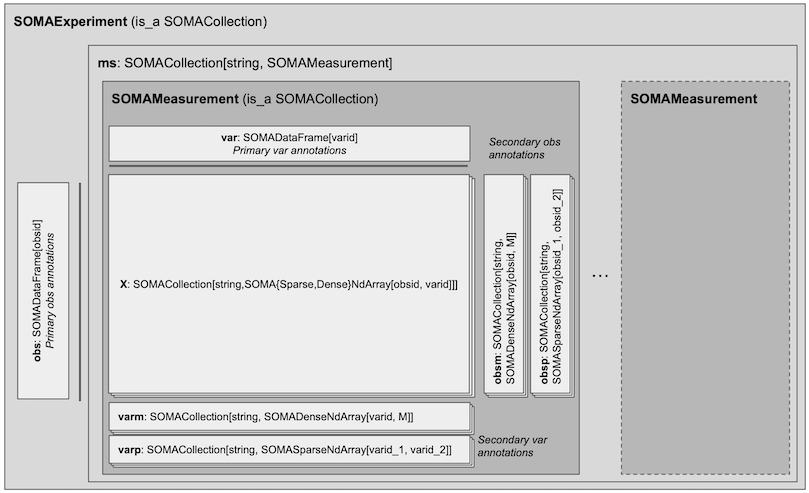
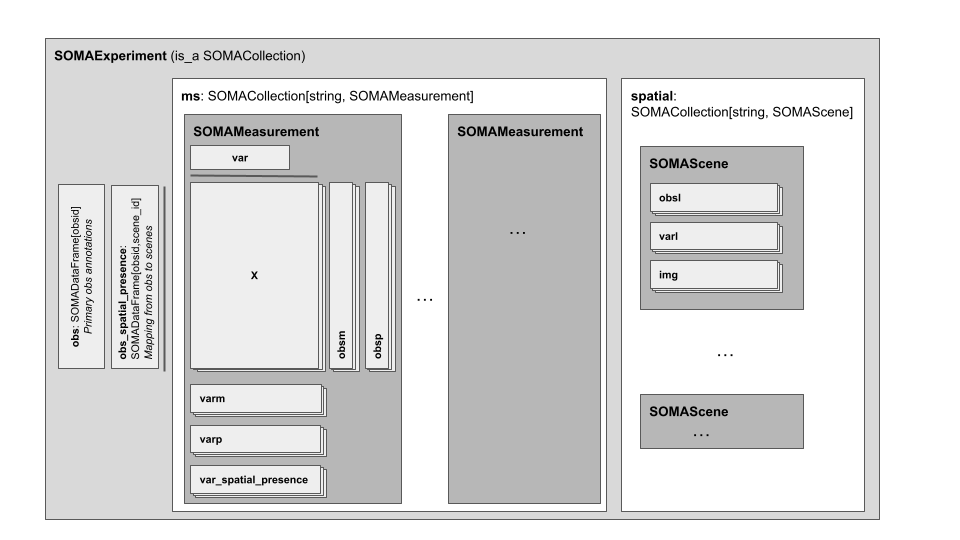
Spatial updates to the abstract spec (#223)
Add the following new datatypes to the abstract specification:

* `SOMAScene`
* `SOMAPointCloudDataFrame`
* `SOMAGeometryDataFrame`
* `SOMAMultiscaleImage`

---------

diff --git a/abstract_specification.md b/abstract_specification.md
@@ -2,7 +2,7 @@
 
 <!-- Note to editors: this version string is independent of GitHub release tags on this repo. In particular, it needs to match `get_SOMA_version()` in impls. -->
 
-**Specification version**: `0.2.0-dev`
+**Specification version**: `0.3.0-dev`
 
 ℹ **Note**: Feedback on this spec is encouraged. Please [file an issue](https://github.com/single-cell-data/SOMA/issues)
 with any and all feedback, comments, or concerns.
@@ -15,7 +15,9 @@ The goal of SOMA (“stack of matrices, annotated”) is a flexible, extensible,
 - enable distributed computation over datasets.
 - provide a building block for higher-level API that may embody domain-specific conventions or schema around annotated 2D matrices (e.g., a cell "atlas").
 
-The SOMA data model is centered on annotated 2-D matrices, conceptually similar to commonly used single-cell 'omics data structures including Seurat Assay, Bioconductor SingleCellExperiment, and Scanpy AnnData. Where possible, the SOMA API attempts to be general-purpose and agnostic to the specifics of any given environment, or to the specific conventions of the Single Cell scientific ecosystem.
+The core SOMA data model is centered on annotated 2-D matrices, conceptually similar to commonly used single-cell 'omics data structures including Seurat Assay, Bioconductor SingleCellExperiment, and Scanpy AnnData. The core data model is supplemented with spatial indexed data for single-cell spatial 'omics support.
+
+Where possible, the SOMA API attempts to be general-purpose and agnostic to the specifics of any given environment, or to the specific conventions of the Single Cell scientific ecosystem.
 
 SOMA is an abstract _API specification_, with the goal of enabling multiple concrete API implementations within different computing environments and data-storage systems. SOMA does not specify an at-rest serialization format or underlying storage system.
 
@@ -65,12 +67,15 @@ The foundational types are:
 
 - `SOMACollection`: a string-keyed container (key-value map) of other SOMA data types, e.g., `SOMADataFrame`, `SOMASparseNDArray`, and `SOMACollection`.
 - `SOMADataFrame`: a multi-column table -- essentially a dataframe with indexing on user-specified columns.
+- `SOMAGeometryDataFrame` and `SOMAPointCloudDataFrame`: multi-column tables for storing spatial indexed dataframes, available for point or full geometry instantiations.
 - `SOMADenseNDArray` and `SOMASparseNDArray`: an offset-addressed (zero-based), single-type N-D array, available in either sparse or dense instantiations.
+- `SOMAMultiscaleImage`: a multiscale image pyramid that stores multiple levels of `SOMADenseNDArray`s.
 
 The composed types are:
 
 - `SOMAExperiment`: a specialization and extension of `SOMACollection`, codifying a set of naming and indexing conventions to represent an annotated, 2-D matrix of observations across _multiple_ sets of variables.
 - `SOMAMeasurement`: a specialization and extension of `SOMACollection`, that contains a set of annotated observables that are common to one or more sets of measurements and/or derived calculations.
+- `SOMAScene`: a specialization and extension of `SOMACollection` that stores spatially resolved data that can be registered to a single coordinate space.
 
 In this document, the term `dataframe` implies something akin to an Arrow `Table` (or `RecordBatch`), R `data.frame` or Python `pandas.DataFrame`, where:
 
@@ -205,6 +210,28 @@ The default "fill" value for `SOMADataFrame` is the zero or null value of the re
 
 Most language-specific bindings will provide convertors between `SOMADataFrame` and other convenient data structures, such as Python `pandas.DataFrame`, R `data.frame`.
 
+### SOMAPointCloudDataFrame
+
+`SOMAPointCloudDataFrame` is a multi-column table with a user-defined schema, defining the number of columns and their respective column name and value type. The schema is expressed as an Arrow `Schema`.
+
+Like the `SOMADataFrame`, every `SOMAPointCloudDataFrame` must contain a column called `soma_joinid` of type `int64` and domain `[0, 2^63-1]`. The `soma_joinid` is intended to act as a joint key for other objects, such as `SOMASparseNDArray`. There may be multiple items with the same `soma_joinid` stored in the `SOMAPointCloudDataFrame`.
+
+In addition to the `soma_joinid`, the user must define spatial columns, referred to as "spatial axes", that define the "points" in the array. Each spatial axis must be either an integer or floating-point type, and they must all have the same type. The user may specify a restriced domain for spatial axes or allow the axes to support the entire valid type range. The spatial axes must be index columns for the `SOMAPointCloudDataFrame`, but the user may also specify other columns as index columns.
+
+The default "fill" value for `SOMAPointCloudDataFrame` is the zero or null value of the respective column data type (e.g., `Arrow.float32` defaults to 0.0, `Arrow.string` to `""`, etc).
+
+### SOMAGeometryDataFrame
+
+`SOMAGeometryDataFrame` is a multi-column table with a user-defined schema, defining the number of columns and their respective column name and value type. The schema is expressed as an Arrow `Schema`.
+
+Like the `SOMADataFrame`, every `SOMAGeometryDataFrame` must contain a column called `soma_joinid` of type `int64` and domain `[0, 2^63-1]`. TThe `soma_joinid` is intended to act as a joint key for other objects, such as `SOMASparseNDArray`. There may be multiple items with the same `soma_joinid` stored in the `SOMAGeometryDataFrame`.
+
+In addition to the `soma_joinid`, every `SOMAGeometryDataFrame` must contain a column called `soma_geometry` with type `binary` that stores a well-known binary blob. The user must provide names for the axes of the geometry stored in the well-known binary that is distinct from the
+names of other columns in the table. The `soma_geometry` must be an index column, but the user may also specify other additional columns as
+index columns. Multiple items with the same geometry may be stored in the `SOMAGeometryDataFrame`.
+
+SOMADataFrame`is the zero or null value of the respective column data type (e.g.,`Arrow.float32`defaults to 0.0,`Arrow.string`to`""`, etc).
+
 ### SOMADenseNDArray
 
 `SOMADenseNDArray` is a dense, N-dimensional array of `primitive` type, with offset (zero-based) integer indexing on each dimension. The `SOMADenseNDArray` has a user-defined schema, which includes:
@@ -229,28 +256,47 @@ All dimensions must have a positive (in particular, non-zero) length, and there 
 
 The default "fill" value for `SOMASparseNDArray` is the zero or null value of the array type (e.g., Arrow.float32 defaults to 0.0).
 
-> ℹ **Note**: on TileDB this is an sparse array with `N` `int64` dimensions of domain `[0, maxInt64)`, and a single attribute.
+> ℹ **Note**: on TileDB this is a sparse array with `N` `int64` dimensions of domain `[0, maxInt64)`, and a single attribute.
+
+### SOMAMultiscaleImage
+
+`SOMAMultiscaleImage` is `string`-keyed map of "images" that are stored as `SOMADenseNDArray`s. The `SOMAMultiscaleImage` is additionally indexed by the maximum shape (largest to smallest). The maximum shape of each `SOMADenseNDArray` must be the size of the entire image, but it may contain regions without data (in which case the `fill` value of the `SOMADenseNDArray` will be used). Keys in the map are unique and singular (no duplicates, i.e., the `SOMAMultiscaleImage` is _not_ a multi-map).
+
+The `SOMAMultiscaleImage` must have a fixed image axis order (e.g. channel-height-width) and a fixed number of channels (if there is a channel column). Each image within the `SOMAMultiscaleImage` must match these conventions. The user may provide names for the columns that correspond to spatial information (e.g. "x" for width and "y" for height).
+
+#### SOMAMultiscaleImage entry URIs
+
+A `SOMAMultiscaleImage` refers to its elements by URI. Like the `SOMACollection`, it refers to an element by **absolute** URI or **relative** URI. See above for a more complete description of **absolute** and **relative** URI behavior.
 
 ## Composed Types
 
 Composed types are defined as a composition of foundational types, adding name, type and indexing constraints. These types are intended to facilitate data interoperability, ease of use, and _potentially_ enable implementation optimizations by virtue of their typing and structural guarantees. The initial composed types are motivated by single-cell biology, but additional types may be added in the future for more diverse use cases.
 
-### SOMAExperiment and SOMAMeasurement
+### SOMAExperiment, SOMAMeasurement, and SOMAScene
 
-`SOMAExperiment` is a specialized `SOMACollection`, representing an annotated 2-D matrix of measurements. In the single-cell-biology use case, a `SOMAExperiment` can represent multiple modes of measurement across a single collection of cells (also known as a "multimodal dataset"). Within a `SOMAExperiment`, a set of measurements on a single set of variables (features) is represented as a `SOMAMeasurement`.
+`SOMAExperiment` is a specialized `SOMACollection`, representing an annotated 2-D matrix of measurements. In the single-cell-biology use case, a `SOMAExperiment` can represent multiple modes of measurement across a single collection of cells (also known as a "multimodal dataset"). Within a `SOMAExperiment`, a set of measurements on a single set of variables (features) is represented as a `SOMAMeasurement`. A `SOMAExperiment` may also contain spatially resolved data that is stored in a `SOMAScene`.
 
-The `SOMAExperiment` and `SOMAMeasurement` types comprise [foundational types](#foundational-types):
+The `SOMAExperiment`, `SOMAMeasurement`, and `SOMAScene` types comprise [foundational types](#foundational-types):
 
-- `SOMAExperiment`: a well-defined set of annotated observations defined by a `SOMADataFrame`, and one or more "measurement" on those observations.
+- `SOMAExperiment`: a well-defined set of annotated observations defined by a `SOMADataFrame`, one or more "measurement" on those observations, and one of more "scenes" of the observables and measurements.
 - `SOMAMeasurement`: for all observables, a common set of annotated variables (defined by a `SOMADataFrame`) for which values (e.g., measurements, calculations) are stored in `SOMADenseNDArray` and `SOMASparseNDArray`.
+- `SOMAScene`: images and spatially indexed data stored on a fixed coordinate system that relate back to the observables and measurements.
 
-In other words, every `SOMAMeasurement` has a distinct set of variables (features), and inherits common observables from its parent `SOMAExperiment`. The `obs` and `var` dataframes define the axis annotations, and their respective `soma_joinid` values are the indices for all matrixes stored in the `SOMAMeasurement`.
+In other words, every `SOMAMeasurement` has a distinct set of variables (features), and inherits common observables from its parent `SOMAExperiment`. The `obs` and `var` dataframes define the axis annotations, and their respective `soma_joinid` values are the indices for all matrixes stored in the `SOMAMeasurement`. Each `SOMAScene` stores images and spatial dataframes that join on the `obs` and var` dataframes.
 
 <figure>
     <img src="images/SOMAExperiment.png" alt="SOMAExperiment">
 </figure>
 
-These types have pre-defined fields, each of which have well-defined naming, typing, dimensionality and indexing constraints. Other user-defined data may be added to a `SOMAExperiment` and `SOMAMeasurement`, as both are a specialization of the `SOMACollection`. Implementations _should_ enforce the constraints on these pre-defined fields. Pre-defined fields are distinguished from other user-defined collection elements, where no schema or indexing semantics are presumed or enforced.
+<figure>
+   <img src="images/SOMAMeasurement.png" alt="SOMAMeasurment">
+</figure>
+
+<figure>
+   <img src="images/SOMAScene.png" alt="SOMAScene">
+</fiture>
+
+These types have pre-defined fields, each of which have well-defined naming, typing, dimensionality and indexing constraints. Other user-defined data may be added to a `SOMAExperiment`, `SOMAMeasurement`, or `SOMAScene`, as each is a specialization of the `SOMACollection`. Implementations _should_ enforce the constraints on these pre-defined fields. Pre-defined fields are distinguished from other user-defined collection elements, where no schema or indexing semantics are presumed or enforced.
 
 The shape of each axis (`obs` and `var`) are defined by their respective dataframes, and the indexing of matrices is defined by the `soma_joinid` of the respective axis dataframe.
 
@@ -259,40 +305,54 @@ The shape of each axis (`obs` and `var`) are defined by their respective datafra
 
 The pre-defined fields of a `SOMAExperiment` object are:
 
-| Field name | Field type                                | Field description                                                                                                                                                                                                                           |
-| ---------- | ----------------------------------------- | ------------------------------------------------------------------------------------------------------------------------------------------------------------------------------------------------------------------------------------------- |
-| `obs`      | `SOMADataFrame`                           | Primary annotations on the _observation_ axis. The contents of the `soma_joinid` pseudo-column define the _observation_ index domain, also known as `obsid`. All observations for the `SOMAExperiment` _must_ be defined in this dataframe. |
-| `ms`       | `SOMACollection[string, SOMAMeasurement]` | A collection of named measurements.                                                                                                                                                                                                         |
+| Field name             | Field type                                | Field description                                                                                                                                                                                                                           |
+| ---------------------- | ----------------------------------------- | ------------------------------------------------------------------------------------------------------------------------------------------------------------------------------------------------------------------------------------------- |
+| `obs`                  | `SOMADataFrame`                           | Primary annotations on the _observation_ axis. The contents of the `soma_joinid` pseudo-column define the _observation_ index domain, also known as `obsid`. All observations for the `SOMAExperiment` _must_ be defined in this dataframe. |
+| `ms`                   | `SOMACollection[string, SOMAMeasurement]` | A collection of named measurements.                                                                                                                                                                                                         |
+| `spatial`              | `SOMACollection[string, SOMAScene]`       | A collection of named scenes.                                                                                                                                                                                                               |
+| `obs_spatial_presence` | `SOMADataFrame`                           | Join table that stores if a particular _observation_ is stored in a given `SOMAScene`. This dataframe is optional and may be omitted even in a `SOMAExperiment` with multiple `SOMAScene` items.                                            |
 
 The `SOMAMeasurement` is a sub-element of a `SOMAExperiment`, and is otherwise a specialized `SOMACollection` with pre-defined fields:
 
-| Field name | Field type                                                    | Field description                                                                                                                                                                                                                                                                                  |
-| ---------- | ------------------------------------------------------------- | -------------------------------------------------------------------------------------------------------------------------------------------------------------------------------------------------------------------------------------------------------------------------------------------------- |
-| `var`      | `SOMADataFrame`                                               | Primary annotations on the _variable_ axis, for variables in this measurement (i.e., annotates columns of `X`). The contents of the `soma_joinid` pseudo-column define the _variable_ index domain, also known as `varid`. All variables for this measurement _must_ be defined in this dataframe. |
-| `X`        | `SOMACollection[string, SOMASparseNDArray\|SOMADenseNDArray]` | A collection of matrices, each containing measured feature values. Each matrix is indexed by `[obsid, varid]`. Both sparse and dense 2D arrays are supported in `X`.                                                                                                                               |
-| `obsm`     | `SOMACollection[string, SOMASparse\|SOMADenseNDArray]`        | A collection of dense matrices containing annotations of each _obs_ row. Has the same shape as `obs`, and is indexed with `obsid`.                                                                                                                                                                 |
-| `obsp`     | `SOMACollection[string, SOMASparseNDArray]`                   | A collection of sparse matrices containing pairwise annotations of each _obs_ row. Indexed with `[obsid_1, obsid_2].`                                                                                                                                                                              |
-| `varm`     | `SOMACollection[string, SOMASparseNDArray\|SOMADenseNDArray]` | A collection of dense matrices containing annotations of each _var_ row. Has the same shape as `var`, and is indexed with `varid`.                                                                                                                                                                 |
-| `varp`     | `SOMACollection[string, SOMASparseNDArray]`                   | A collection of sparse matrices containing pairwise annotations of each _var_ row. Indexed with `[varid_1, varid_2]`                                                                                                                                                                               |
+| Field name             | Field type                                                    | Field description                                                                                                                                                                                                                                                                                  |
+| ---------------------- | ------------------------------------------------------------- | -------------------------------------------------------------------------------------------------------------------------------------------------------------------------------------------------------------------------------------------------------------------------------------------------- |
+| `var`                  | `SOMADataFrame`                                               | Primary annotations on the _variable_ axis, for variables in this measurement (i.e., annotates columns of `X`). The contents of the `soma_joinid` pseudo-column define the _variable_ index domain, also known as `varid`. All variables for this measurement _must_ be defined in this dataframe. |
+| `X`                    | `SOMACollection[string, SOMASparseNDArray\|SOMADenseNDArray]` | A collection of matrices, each containing measured feature values. Each matrix is indexed by `[obsid, varid]`. Both sparse and dense 2D arrays are supported in `X`.                                                                                                                               |
+| `obsm`                 | `SOMACollection[string, SOMASparse\|SOMADenseNDArray]`        | A collection of dense matrices containing annotations of each _obs_ row. Has the same shape as `obs`, and is indexed with `obsid`.                                                                                                                                                                 |
+| `obsp`                 | `SOMACollection[string, SOMASparseNDArray]`                   | A collection of sparse matrices containing pairwise annotations of each _obs_ row. Indexed with `[obsid_1, obsid_2].`                                                                                                                                                                              |
+| `varm`                 | `SOMACollection[string, SOMASparseNDArray\|SOMADenseNDArray]` | A collection of dense matrices containing annotations of each _var_ row. Has the same shape as `var`, and is indexed with `varid`.                                                                                                                                                                 |
+| `varp`                 | `SOMACollection[string, SOMASparseNDArray]`                   | A collection of sparse matrices containing pairwise annotations of each _var_ row. Indexed with `[varid_1, varid_2]`                                                                                                                                                                               |
+| `var_spatial_presence` | `SOMADataFrame`                                               | Join table that stores if a particular _variable_ is stored in a given `SOMAScene`. This dataframe is optional and may be omitted even if the `SOMAExperiment` the `SOMAMeasurement` is in contains multiple `SOMAScene` items.                                                                    |
+
+The `SOMAScene` is a sub-element of a `SOMAExperiment`, and is otherwise a specialized `SOMACollection` with pre-defined fields:
+
+| Field name | Field type                                                                                    | Field description                                                                                                                                                                                                                     |
+| ---------- | --------------------------------------------------------------------------------------------- | ------------------------------------------------------------------------------------------------------------------------------------------------------------------------------------------------------------------------------------- |
+| `obsl`     | `SOMACollection[string, SOMAPointCloudDataFrame\|SOMAGeometryDataFrame]`                      | Location-based annotations on the _observable_ domain. The `soma_joinid` in any item in this collection should be interpreted as the `obsid`                                                                                          |
+| `varl`     | `SOMACollection[string, SOMACollection[str, SOMAPointCloudDataFrame\|SOMAGeometryDataFrame]]` | Location-based annotations on the _variable_ domain. The outer collection is keyed on the measurement names. The `soma_joinid` for items in the inner collection should be interpreted as the `varid` for the respective measurement. |
+| `img`      | `SOMACollection[string, MultiscaleImage]`                                                     | A collection of multiscale images related to the experiment.                                                                                                                                                                          |
 
 For the entire `SOMAExperiment`, the index domain for the elements within `obsp`, `obsm` and `X` (first dimension) are the values defined by the `obs` dataframe `soma_joinid` column. For each `SOMAMeasurement`, the index domain for `varp`, `varm` and `X` (second dimension) are the values defined by the `var` dataframe `soma_joinid` column in the same measurement. In other words, all predefined fields in the `SOMAMeasurement` share a common `obsid` and `varid` domain, which is defined by the contents of the respective columns in `obs` and `var` dataframes.
 
-As with other `SOMACollections`, the `SOMAExperiment` and `SOMAMeasurement` also have a `metadata` field, and may contain other user-defined elements. Keys in a `SOMAExperiment` and `SOMAMeasurement` beginning with the characters `_`, `.`, or `$` are reserved for ad-hoc use, and will not be utilized by this specification. All other keys are reserved for future specifications.
+As with other `SOMACollections`, the `SOMAExperiment`, `SOMAMeasurement`, and `SOMAScene` also have a `metadata` field, and may contain other user-defined elements. Keys in a `SOMAExperiment`, `SOMAMeasurement`, and `SOMAScene` beginning with the characters `_`, `.`, or `$` are reserved for ad-hoc use, and will not be utilized by this specification. All other keys are reserved for future specifications.
 
 The following naming and indexing constraints are defined for the `SOMAExperiment` and `SOMAMeasurement`:
 
-| Field name                     | Field constraints                                                                                                                                                        |
-| ------------------------------ | ------------------------------------------------------------------------------------------------------------------------------------------------------------------------ |
-| `obs`, `var`                   | Field type is a `SOMADataFrame`.                                                                                                                                         |
-| `X`                            | Field type is a `SOMACollection`, and each element in the collection has a value of type `SOMADenseNDArray` or `SOMASparseNDArray`.                                      |
-| `obsp`, `varp`                 | Field type is a `SOMACollection`, and each element in the collection has a value of type `SOMASparseNDArray`.                                                            |
-| `obsm`, `varm`                 | Field type is a `SOMACollection`, and each element in the collection has a value of type `SOMADenseNDArray`.                                                             |
-| `obsm`, `obsp`, `varm`, `varp` | Fields may be empty collections.                                                                                                                                         |
-| `X` collection values          | All matrixes must have the shape `(O, V)`, where `O` is the domain of `obs.soma_joinid`, and `V` is the domain of `var.soma_joinid` in the containing `SOMAMeasurement`. |
-| `obsm` collection values       | All matrixes must have the shape `(O, M)`, where `M` is user-defined. The domain of the first dimension is the values of `obs.soma_joinid`.                              |
-| `obsp` collection values       | All matrixes must have the shape `(O, O)`. The domain of both dimensions is the values of `obs.soma_joinid`.                                                             |
-| `varm` collection values       | All matrixes must have the shape `(V, M)`, where `M` is user-defined. The domain of the first dimension is the values of `var.soma_joinid`.                              |
-| `varp` collection values       | All matrixes must have the shape `(V, V)`. The domain of both dimensions is the values of `var.soma_joinid`.                                                             |
+| Field name                                     | Field constraints                                                                                                                                                        |
+| ---------------------------------------------- | ------------------------------------------------------------------------------------------------------------------------------------------------------------------------ |
+| `obs`, `var`                                   | Field type is a `SOMADataFrame`.                                                                                                                                         |
+| `ms`                                           | Field type is a `SOMACollection`, and each element in the collection has a value of type `SOMAMeasurement`.                                                              |
+| `spatial`                                      | Field type is a `SOMACollection`, and each element in the collection has a value of type `SOMAScene`.                                                                    |
+| `X`                                            | Field type is a `SOMACollection`, and each element in the collection has a value of type `SOMADenseNDArray` or `SOMASparseNDArray`.                                      |
+| `obsp`, `varp`                                 | Field type is a `SOMACollection`, and each element in the collection has a value of type `SOMASparseNDArray`.                                                            |
+| `obsm`, `varm`                                 | Field type is a `SOMACollection`, and each element in the collection has a value of type `SOMADenseNDArray`.                                                             |
+| `obsm`, `obsp`, `varm`, `varp`                 | Fields may be empty collections.                                                                                                                                         |
+| `X` collection values                          | All matrixes must have the shape `(O, V)`, where `O` is the domain of `obs.soma_joinid`, and `V` is the domain of `var.soma_joinid` in the containing `SOMAMeasurement`. |
+| `obsm` collection values                       | All matrixes must have the shape `(O, M)`, where `M` is user-defined. The domain of the first dimension is the values of `obs.soma_joinid`.                              |
+| `obsp` collection values                       | All matrixes must have the shape `(O, O)`. The domain of both dimensions is the values of `obs.soma_joinid`.                                                             |
+| `varm` collection values                       | All matrixes must have the shape `(V, M)`, where `M` is user-defined. The domain of the first dimension is the values of `var.soma_joinid`.                              |
+| `varp` collection values                       | All matrixes must have the shape `(V, V)`. The domain of both dimensions is the values of `var.soma_joinid`.                                                             |
+| `obs_spatial_presence`, `var_spatial_presence` | Field type is a `SOMADataFrame`. Index columns are `soma_joinid` and a string column named `scene_id` with exactly one other boolean column named `data`.                |
 
 # Functional Operations
 
@@ -466,7 +526,7 @@ soma_impl.Collection.exists("backend://host/nonexistent/path")
 
 ## SOMACollection
 
-Summary of operations on a `SOMACollection`, where `ValueType` is any SOMA-defined foundational or composed type, including `SOMACollection`, `SOMADataFrame`, `SOMADenseNDArray`, `SOMASparseNDArray` or `SOMAExperiment`:
+Summary of operations on a `SOMACollection`, where `ValueType` is any SOMA-defined foundational or composed type, including `SOMACollection`, `SOMADataFrame`, `SOMAPointCloudDataFrame`, `SOMAGeometryDataFrame`, `SOMADenseNDArray`, `SOMASparseNDArray`, `SOMAMultiscaleImage`, `SOMAExperiment`, `SOMAMeasurement`, or `SOMAScene`:
 
 | Operation     | Description                                                                |
 | ------------- | -------------------------------------------------------------------------- |
@@ -586,6 +646,10 @@ add_new_collection(string key, CollectionType kind, string uri = "", PlatformCon
 
 - `kind`: The kind of collection to add. For instance, if `SOMAExperiment` is provided, the newly-added collection, and the returned instance, will be a `SOMAExperiment`.
 
+## SOMAScene
+
+<!-- TODO: Add the operations. -->
+
 ## SOMADataFrame
 
 Summary of operations:
@@ -677,6 +741,14 @@ Parameters:
 - [`platform_config`](#platform-specific-configuration): optional storage-engine-specific configuration.
 
 All columns, including index columns and `soma_joinid` must be specified in the `values` parameter.
+
+## SOMAPointCloudDataFrame
+
+<!-- TODO: Add the operations. -->
+
+## SOMAGeometryDataFrame
+
+<!-- TODO: Add the operations. -->
 
 ## SOMADenseNDArray
 
@@ -846,6 +918,10 @@ Parameters:
 
 - `values`: values to be written. The type of elements in `values` must match the type of the `SOMASparseNDArray`.
 - [`platform_config`](#platform-specific-configuration): optional storage-engine-specific configuration.
+
+## SOMAMultiscaleImage
+
+<!-- TODO: Add the operations. -->
 
 ## Enumeration types
 
@@ -1197,3 +1273,4 @@ However, client code should treat the `context` object on any instantiated SOMA 
 52. Removed ⚠-marked commentary.
 53. Added `SOMAMeasurement` to "Data Model" section, under "composed types".
 54. Allowed all N-d arrays to be sparse.
+55. Added new datatypes `SOMAScene`, `SOMAPointCloudDataFrame`, `SOMAGeometryDataframe`, and `SOMAMultiscaleImage`, and bumped the API version to `0.3.0-dev`.
